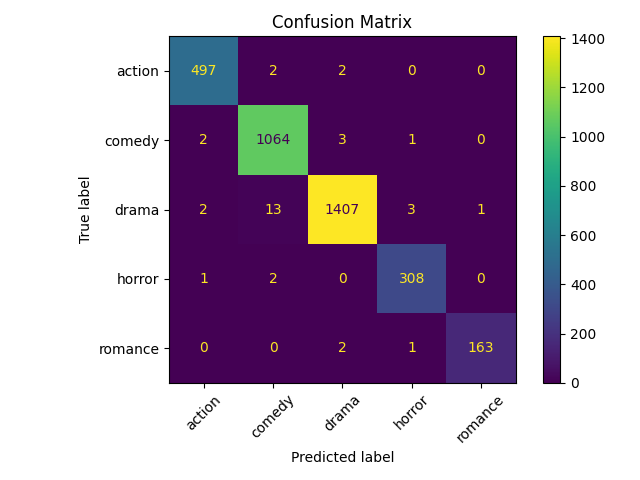
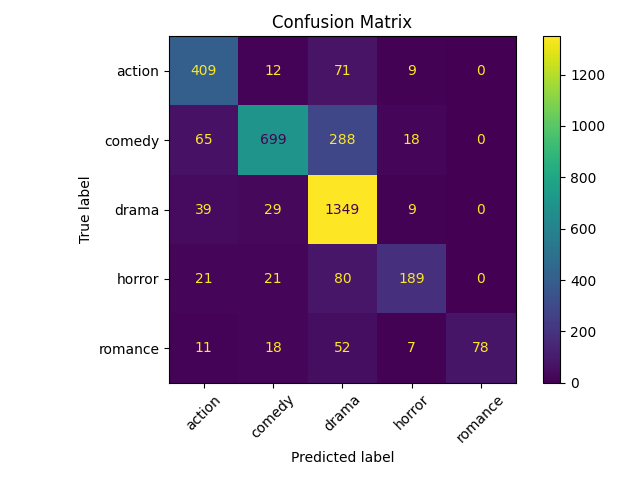
Update classification, generation modules, and confusion matrix; adjust .gitignore

diff --git a/backend/app/services/classification/genre_classifier.py b/backend/app/services/classification/genre_classifier.py
@@ -1,53 +1,59 @@
+import os
 import torch
-import torch.nn as nn
-from torchvision import models, transforms
+from torch import nn
+from torchvision import transforms
 from PIL import Image
+from transformers import ViTForImageClassification
 
 class GenreClassifier(nn.Module):
     def __init__(self, num_classes=5, checkpoint=None):
         super(GenreClassifier, self).__init__()
-        
-        # Load the pretrained ResNet-18 model
-        self.model = models.resnet18(pretrained=True)
-        self.model.fc = nn.Linear(self.model.fc.in_features, num_classes)  # Action, Comedy, Drama, Horror, Romance
 
+        # Load the pretrained Vision Transformer (ViT) model
+        self.model = ViTForImageClassification.from_pretrained(
+            "google/vit-base-patch16-224-in21k", 
+            num_labels=num_classes
+        )
+
+        # If a checkpoint is provided, load the weights
         if checkpoint:
             self.model.load_state_dict(torch.load(checkpoint, map_location="cpu"))
-        
-        self.model.eval()  
+
+        self.model.eval()  # Set the model to evaluation mode
 
         self.transform = transforms.Compose([
-            transforms.Resize((224, 224)), 
-            transforms.ToTensor(),  
-            transforms.Normalize(mean=[0.485, 0.456, 0.406], std=[0.229, 0.224, 0.225]), 
+            transforms.Resize((224, 224)),
+            transforms.ToTensor(),
+            transforms.Normalize(mean=[0.485, 0.456, 0.406],
+                                 std=[0.229, 0.224, 0.225]),
         ])
 
     def forward(self, x):
         return self.model(x)
 
-
     def predict(self, image_path: str):
-      """Make prediction on the input image"""
-      img = Image.open(image_path).convert("RGB") 
-      tensor = self.transform(img).unsqueeze(0) 
-      with torch.no_grad():  
-        logits = self.model(tensor) 
-        probs = torch.nn.functional.softmax(logits, dim=1)[0]  
+        """Make prediction on the input image"""
+        img = Image.open(image_path).convert("RGB")
+        tensor = self.transform(img).unsqueeze(0)
+        labels = ["Action", "Comedy", "Drama", "Horror", "Romance"]
 
-      best_idx = torch.argmax(probs).item() 
-      confidence = probs[best_idx].item() 
-      labels = ["Action", "Comedy", "Drama", "Horror", "Romance"]
+        with torch.no_grad():
+            logits = self.model(tensor)
+            probs = torch.nn.functional.softmax(logits.logits, dim=1)[0]
 
-      print("Class probabilities:", {labels[i]: round(probs[i].item(), 3) for i in range(len(probs))})
+        best_idx = torch.argmax(probs).item()
+        confidence = probs[best_idx].item()
 
-      if confidence < 0.5:
-        return {"error": "Classification confidence too low", "all_probabilities": {labels[i]: round(probs[i].item(), 3) for i in range(len(probs))}}
+        # Build a dictionary of all probabilities
+        prob_dict = {labels[i]: round(probs[i].item(), 3) for i in range(len(labels))}
 
-      return {
-        "label": labels[best_idx],
-        "confidence": round(confidence, 3),
-        "all_probabilities": {labels[i]: round(probs[i].item(), 3) for i in range(len(probs))}
-      }
+        print("Class probabilities:", prob_dict)
+
+        return {
+            "label": labels[best_idx],
+            "confidence": round(confidence, 3),
+            "predictions": prob_dict
+        }
 
 
 

diff --git a/backend/app/models/genre_classifier/train_classifier.py b/backend/app/models/genre_classifier/train_classifier.py
@@ -2,8 +2,10 @@ import torch
 import torch.optim as optim
 import torch.nn as nn
 from torch.utils.tensorboard import SummaryWriter
-from backend.app.services.classification.genre_classifier import GenreClassifier
+from transformers import ViTForImageClassification
 from backend.scripts.prepare_data import prepare_data
+import warnings
+warnings.filterwarnings("ignore", category=FutureWarning)
 
 # Evaluation imports
 from sklearn.metrics import precision_score, recall_score, f1_score, confusion_matrix, ConfusionMatrixDisplay
@@ -21,7 +23,8 @@ def train_model(model, train_loader, optimizer, criterion, device, writer, epoch
             imgs, labels = imgs.to(device), labels.to(device)
             optimizer.zero_grad()
 
-            outputs = model(imgs)
+            # Forward pass
+            outputs = model(imgs).logits  # For ViT, the output logits are in the 'logits' attribute
             loss = criterion(outputs, labels)
             loss.backward()
             optimizer.step()
@@ -49,7 +52,7 @@ def evaluate(model, test_loader, labels, device):
     with torch.no_grad():
         for imgs, targets in test_loader:
             imgs = imgs.to(device)
-            outputs = model(imgs)
+            outputs = model(imgs).logits  # ViT's logits
             preds = outputs.argmax(dim=1).cpu().numpy()
             all_preds.extend(preds)
             all_targets.extend(targets.cpu().numpy())
@@ -58,7 +61,7 @@ def evaluate(model, test_loader, labels, device):
     recall = recall_score(all_targets, all_preds, average="weighted")
     f1 = f1_score(all_targets, all_preds, average="weighted")
 
-    print(f"\n Evaluation:")
+    print(f"\nEvaluation:")
     print(f"Precision: {precision:.3f}")
     print(f"Recall:    {recall:.3f}")
     print(f"F1-score:  {f1:.3f}")
@@ -74,19 +77,27 @@ def evaluate(model, test_loader, labels, device):
 
 
 if __name__ == '__main__':
-    model = GenreClassifier(num_classes=5)
+    # Initialize the ViT model with 5 output classes (Action, Comedy, Drama, Horror, Romance)
+    model = ViTForImageClassification.from_pretrained("google/vit-base-patch16-224-in21k", num_labels=5)
+
+    # Move model to device (GPU if available)
     device = torch.device("cuda" if torch.cuda.is_available() else "cpu")
     model = model.to(device)
 
+    # Define loss and optimizer
     criterion = nn.CrossEntropyLoss()
     optimizer = optim.Adam(model.parameters(), lr=1e-4)
     writer = SummaryWriter(log_dir='app/logs/tensorboard')
 
+    # Prepare data (train_loader, test_loader)
     train_loader, test_loader = prepare_data()
 
+    # Train the model
     trained_model = train_model(model, train_loader, optimizer, criterion, device, writer, epochs=10)
 
-    torch.save(trained_model.state_dict(), 'backend/app/models/genre_classifier/genre_classifier.pt')
-    print("Model saved to app/models/genre_classifier/genre_classifier.pt")
+    # Save the model weights after training
+    torch.save(trained_model.state_dict(), 'backend/app/models/genre_classifier/vit_genre_classifier.pt')
+    print("Model saved to app/models/genre_classifier/vit_genre_classifier.pt")
 
+    # Evaluate the model
     evaluate(trained_model, test_loader, train_loader.dataset.classes, device)

diff --git a/backend/app/api/classify.py b/backend/app/api/classify.py
@@ -7,17 +7,30 @@ from backend.app.services.classification.genre_classifier import GenreClassifier
 router = APIRouter()
 classifier = GenreClassifier()
 
+# @router.post("/", summary="Classify genre from poster")
+# def classify_poster(request: FilepathRequest):
+#     result = classifier.predict(request.filepath)
+
+#     # Check if the prediction returned an error (low confidence)
+#     if "error" in result:
+#         raise HTTPException(status_code=400, detail=result["error"])
+
+#     # If confidence is too low, return an error response
+#     if result["confidence"] < 0.4:
+#         print(f"Low confidence detected: {result['confidence']}")  # Debugging output
+#         return {"error": "Classification confidence too low"}
+
+#     return result
+
 @router.post("/", summary="Classify genre from poster")
 def classify_poster(request: FilepathRequest):
     result = classifier.predict(request.filepath)
 
-    # Check if the prediction returned an error (low confidence)
-    if "error" in result:
-        raise HTTPException(status_code=400, detail=result["error"])
+    # Add a low_confidence flag if the top prediction is below 0.4
+    result["low_confidence"] = result["confidence"] < 0.4
 
-    # If confidence is too low, return an error response
-    if result["confidence"] < 0.4:
-        print(f"Low confidence detected: {result['confidence']}")  # Debugging output
-        return {"error": "Classification confidence too low"}
+    if result["low_confidence"]:
+        print(f"Low confidence detected: {result['confidence']}")  # Optional debug info
 
     return result
+

diff --git a/backend/app/models/generation/generation.py b/backend/app/models/generation/generation.py
@@ -11,8 +11,8 @@ class GenerationRequest(BaseModel):
 class GenerationResponse(BaseModel):
     output: str 
 
-class GeneratedPoster(SQLModel, table=True):
-    id: Optional[int] = Field(default=None, primary_key=True)
-    user_id: int = Field(foreign_key="user.id")
-    prompt: str
-    image_url: str
+# class GeneratedPoster(SQLModel, table=True):
+#     id: Optional[int] = Field(default=None, primary_key=True)
+#     user_id: int = Field(foreign_key="user.id")
+#     prompt: str
+#     image_url: str

diff --git a/backend/app/api/generation.py b/backend/app/api/generation.py
@@ -2,7 +2,7 @@ import os
 import tempfile
 import uuid
 from fastapi import APIRouter, File, Form, UploadFile, HTTPException
-from backend.app.models.generation import GenerationResponse
+from backend.app.models.generation.generation import GenerationResponse
 from backend.app.services.generation.stable_diffusion import StableDiffusionGenerator
 
 router = APIRouter()

diff --git a/backend/app/api/faces.py b/backend/app/api/faces.py
@@ -5,7 +5,7 @@ from backend.app.models.embeddings import EmbedRequest
 from backend.app.services.faces.face_analyzer import FaceAnalyzer
 
 router = APIRouter()
-analyzer = FaceAnalyzer()  # Provide path to known faces directory
+analyzer = FaceAnalyzer() 
 
 @router.post("/", summary="Detect and recognize faces in an image")
 def detect_faces(request: EmbedRequest):

diff --git a/backend/app/models/generation/__init__.py b/backend/app/models/generation/__init__.py
@@ -1,3 +1,3 @@
 # app/models/generation/__init__.py
 
-from .generation import GenerationRequest, GenerationResponse, GeneratedPoster
+# from .generation import GenerationRequest, GenerationResponse, GeneratedPoster
